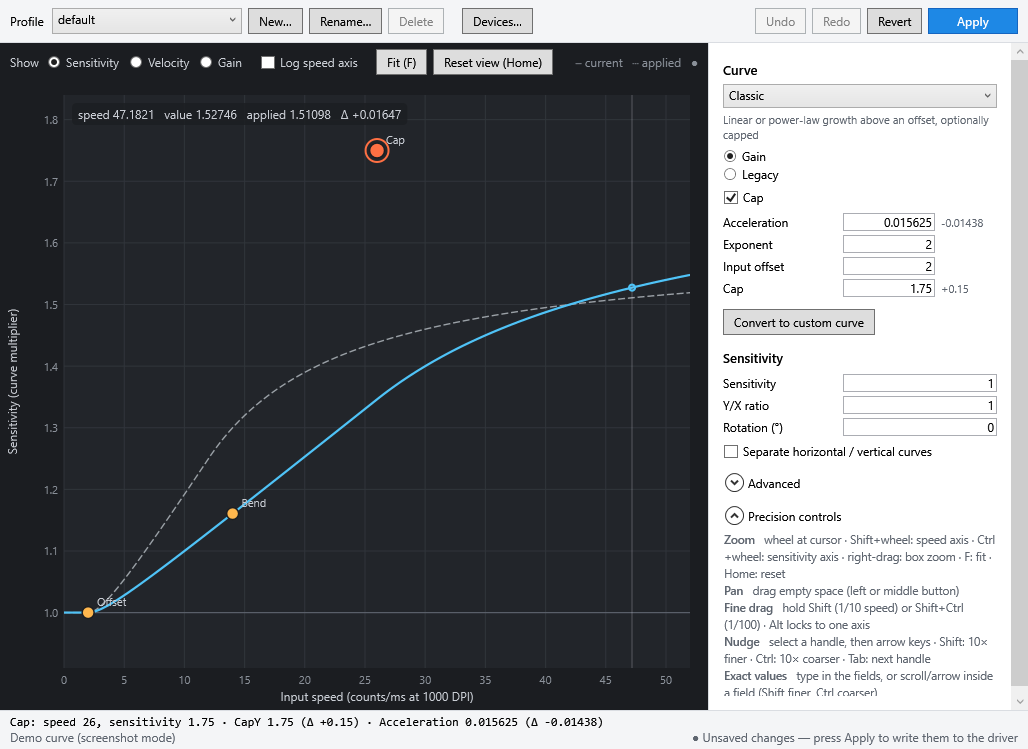
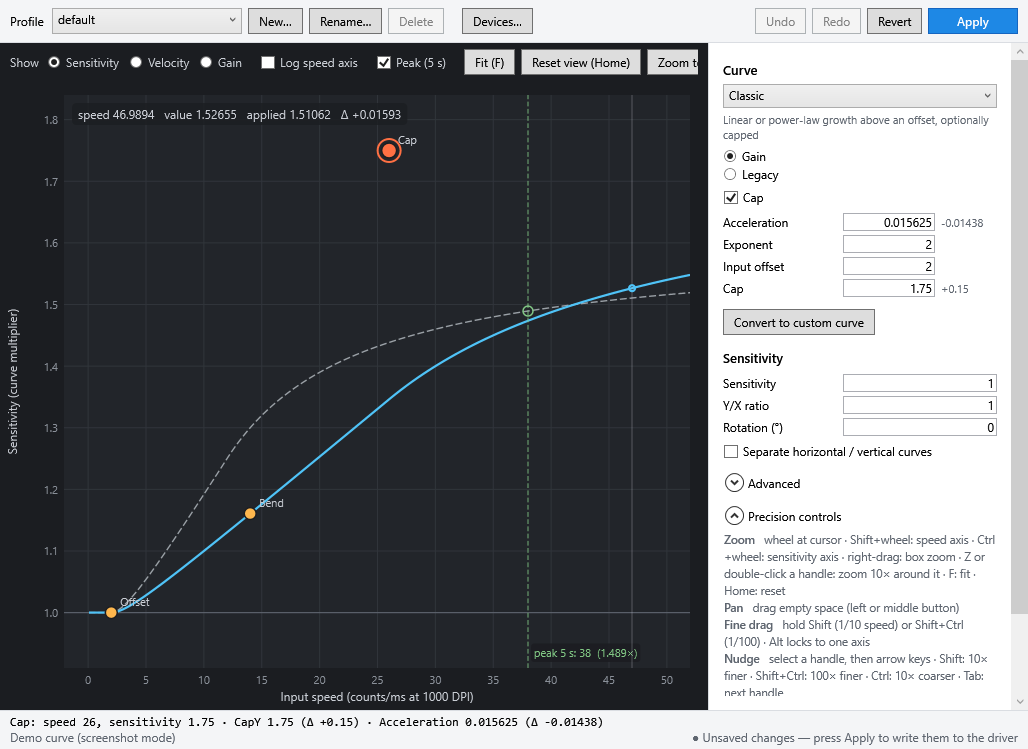
Curve editor: wrap the chart toolbar on narrow windows
The toolbar cut off 'Zoom to handle' at ~1000 px wide; it now wraps.
Also refresh the guide screenshot (shows the 5 s peak marker).

Claude-Session: https://claude.ai/code/session_01WX6KtJ5AwSgZ7zUEpmosqb

diff --git a/curve-editor/MainWindow.xaml b/curve-editor/MainWindow.xaml
@@ -190,7 +190,7 @@
         <!-- chart -->
         <DockPanel>
             <Border DockPanel.Dock="Top" Background="#1B1D21" Padding="10,6">
-                <StackPanel Orientation="Horizontal">
+                <WrapPanel Orientation="Horizontal">
                     <TextBlock Text="Show" Foreground="#C9CDD4" VerticalAlignment="Center" Margin="0,0,8,0" />
                     <RadioButton Content="Sensitivity" Foreground="#C9CDD4" GroupName="kind" Margin="0,0,10,0" VerticalAlignment="Center" Checked="OnKindSensitivity" IsChecked="True" />
                     <RadioButton Content="Velocity" Foreground="#C9CDD4" GroupName="kind" Margin="0,0,10,0" VerticalAlignment="Center" Checked="OnKindVelocity" />
@@ -199,11 +199,11 @@
                     <CheckBox Content="Peak (5 s)" Foreground="#C9CDD4" IsChecked="True" VerticalAlignment="Center" Margin="0,0,18,0"
                               Checked="OnShowPeakChanged" Unchecked="OnShowPeakChanged"
                               ToolTip="Mark the fastest mouse speed of the last 5 seconds on the applied curve. It stays after you stop moving, so you can check a swipe afterwards." />
-                    <Button Content="Fit (F)" Command="{Binding FitCommand}" />
-                    <Button Content="Reset view (Home)" Command="{Binding ResetViewCommand}" />
-                    <Button Content="Zoom to handle (Z)" Click="OnZoomToHandle" ToolTip="Zoom 10× around the selected handle (or double-click a handle) for finer drags and nudges" />
+                    <Button Margin="0,2,6,2" Content="Fit (F)" Command="{Binding FitCommand}" />
+                    <Button Margin="0,2,6,2" Content="Reset view (Home)" Command="{Binding ResetViewCommand}" />
+                    <Button Margin="0,2,6,2" Content="Zoom to handle (Z)" Click="OnZoomToHandle" ToolTip="Zoom 10× around the selected handle (or double-click a handle) for finer drags and nudges" />
                     <TextBlock Text="  ─ current   ┄ applied   ● live mouse   ┆ 5 s peak" Foreground="#8A9099" VerticalAlignment="Center" Margin="10,0,0,0" />
-                </StackPanel>
+                </WrapPanel>
             </Border>
             <c:CurveCanvas x:Name="Chart" />
         </DockPanel>
